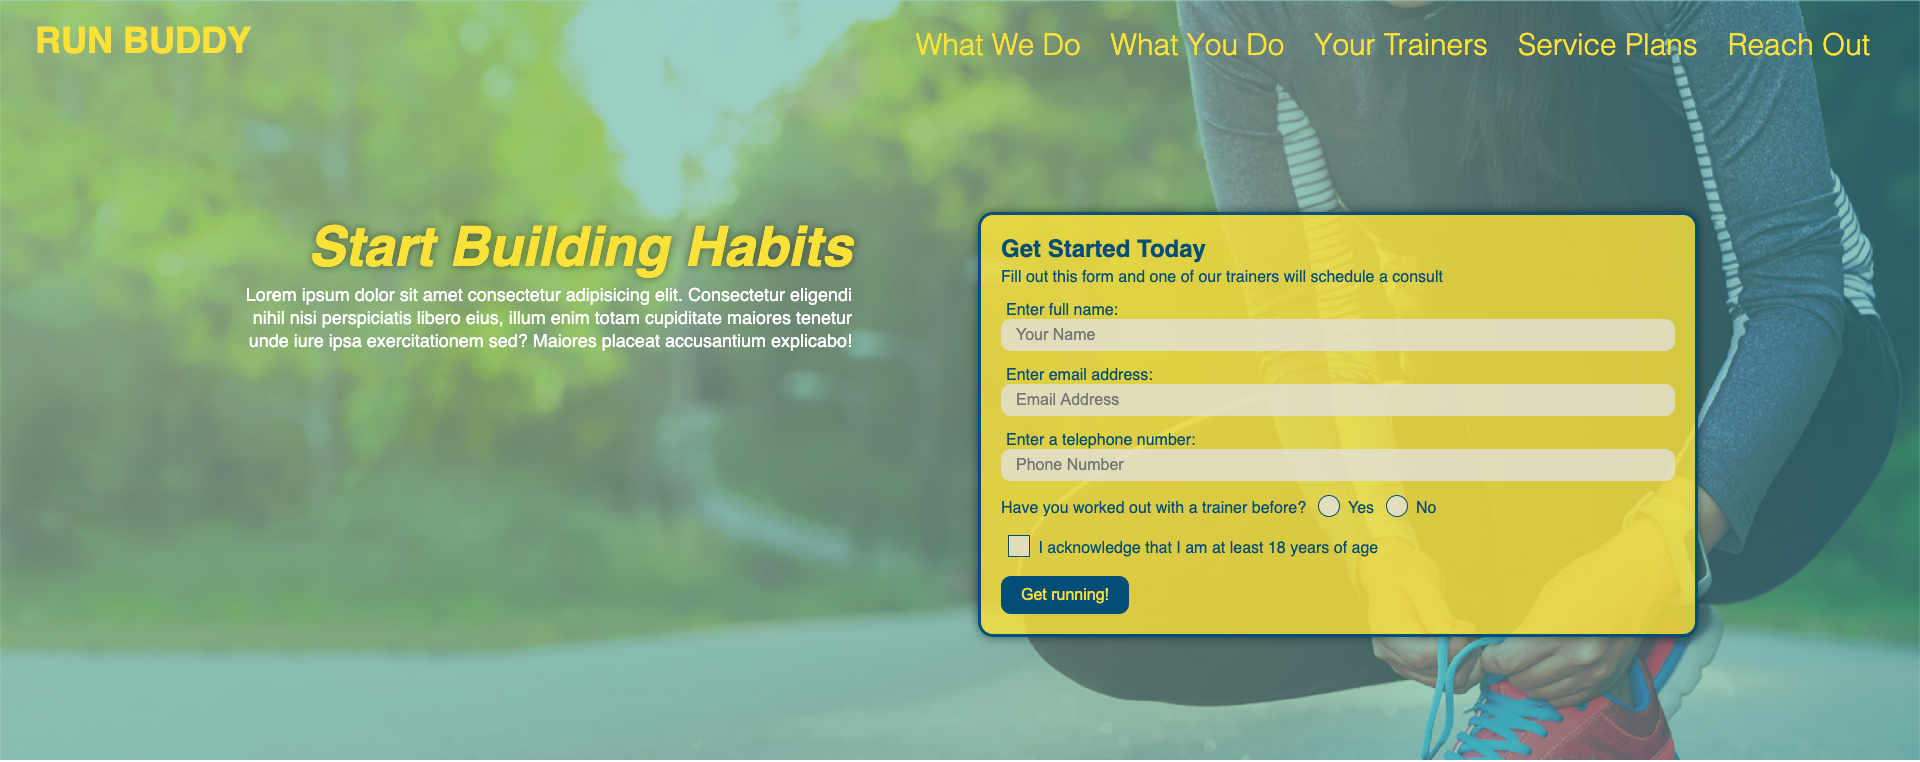
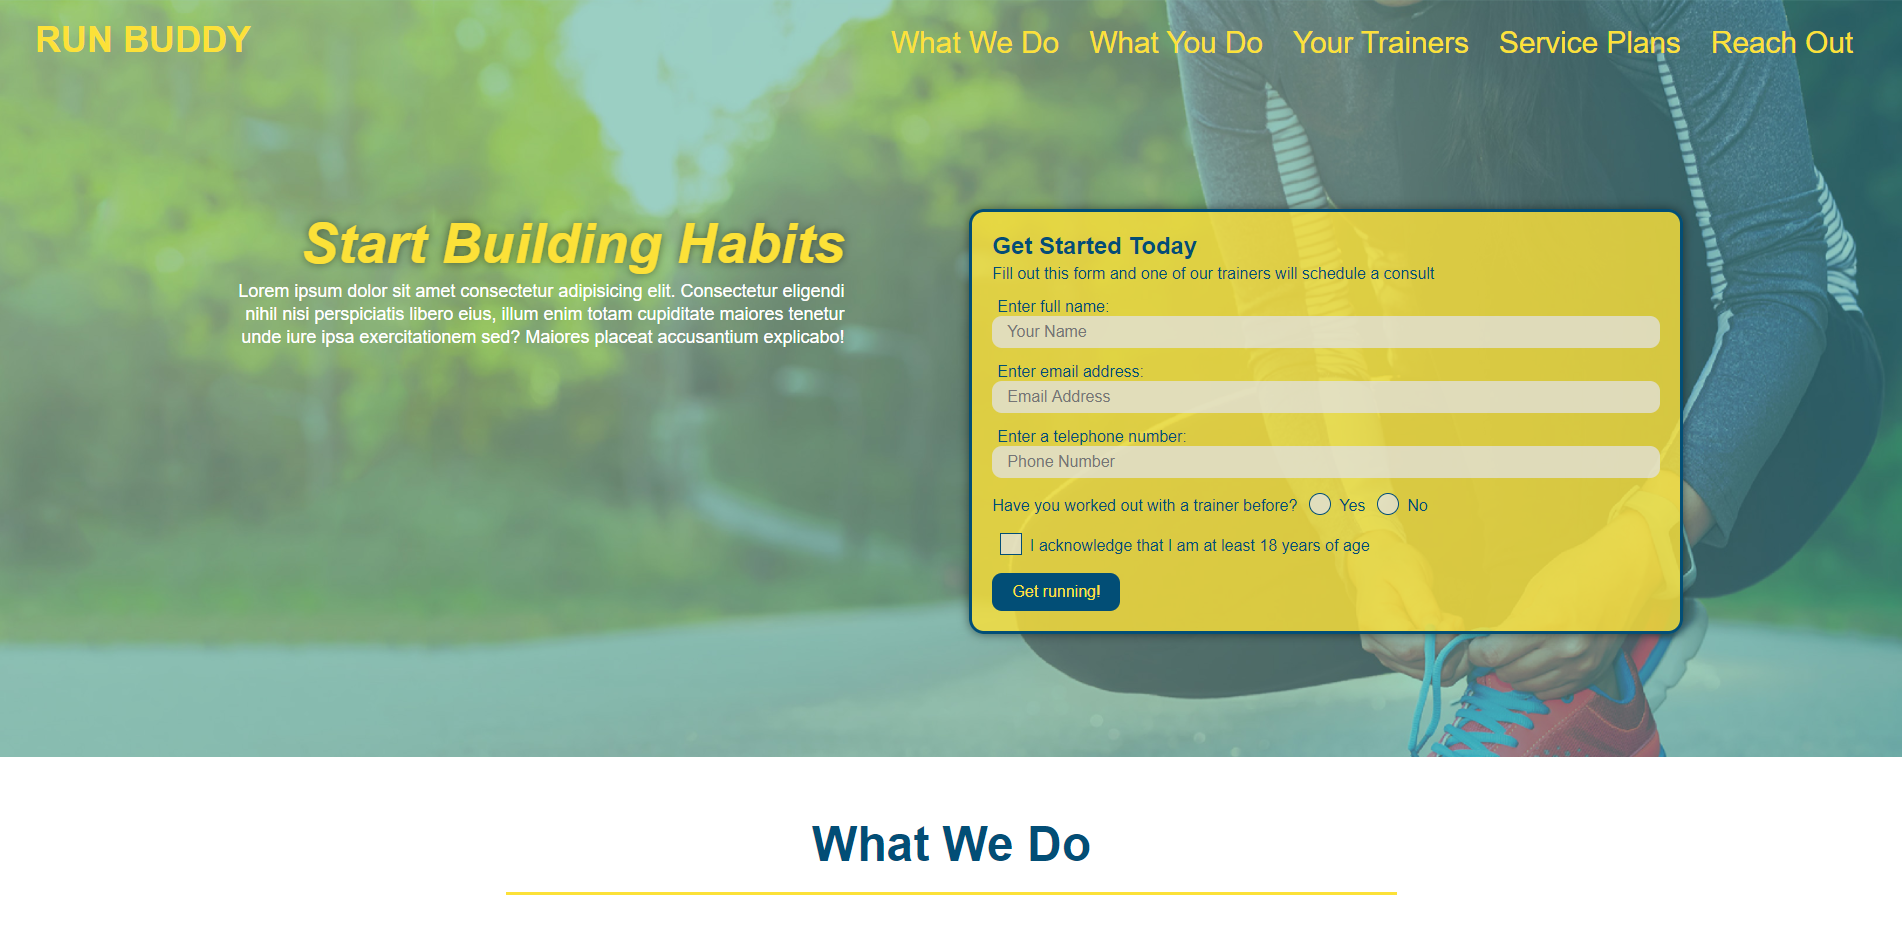
styled work section

diff --git a/index.html b/index.html
@@ -54,7 +54,7 @@
                     About Me
                 </h2>
             </div>
-            <div class="card-text pt-2">
+            <div class="card-text pt-2 px-5">
                 <p>
                     Adam is a gradute of the University of Tennessee's theatre program.  
                     Since graduation, he has worked locally with many different performing arts groups, including serving as Director of Performing Arts for Sundress Academy for the Arts as well as serving as in-house playwright for Knoxville Gay Men's Chorus.  
@@ -66,63 +66,64 @@
         </section>
 
         <!-- Work -->
-        <section id="work" class="work">
-            <h2 class="section-header">
-                Work
-            </h2>
+        <section id="work" class="work card bg-warning text-light p-2 m-1">
+            <div class="border-bottom">
+                <h2 class="section-header card-title text-center">
+                    Work
+                </h2>
+            </div>
             <!-- Projects Container Grid -->
-            <div class="container wrap projects">
+            <div class="container projects pt-3">
                
-                <!-- Row 1 -->
                 <div class="row">
-                    <div class="col-8 project">
+                    <div class="col-md-8 project pb-2">
                         <a class="card bg-dark text-white" href="https://fancibleunicorn.github.io/run-buddy/" >
-                            <img src="./images/run-buddy.png" class=" card-img" alt="Run-Buddy Website">
+                            <img src="./images/coding-with-cocktails.PNG" class=" card-img" alt="Run-Buddy Website">
+                            <div class="card-img-overlay">
+                                <h2 class="card-title">Coding-with-Cocktails</h2>
+                            </div>
+                        </a>
+                    </div>
+                    <div class="row col-md-4 project m-0">
+                        <div>
+                            <div class="project pb-2">
+                                <a class="card bg-dark text-light" href="https://fancibleunicorn.github.io/weather-dashboard/" >
+                                    <img src="./images/weather-dashboard.png" class="card-img" alt="Run-Buddy Website">
+                                    <div class="card-img-overlay">
+                                        <h2 class="card-title shadow-lg">Weather-Dashboard</h2>
+                                    </div>
+                                </a>
+                            </div>
+                        
+                            <div class="project pb-2">
+                                <a class="card bg-dark text-white" href="https://fancibleunicorn.github.io/git-it-done/" >
+                                    <img src="./images/git-it-done.PNG" class="card-img" alt="Run-Buddy Website">
+                                    <div class="card-img-overlay">
+                                        <h2 class="card-title">Git-it-Done</h2>
+                                    </div>
+                                </a>
+                            </div>
+                        </div>
+                    </div>
+                </div>
+                <div class="row">
+                    <div class="project col-md-4 pb-2">
+                        <a class="card bg-dark text-white" href="https://fancibleunicorn.github.io/run-buddy/" >
+                            <img src="./images/run-buddy.png" class="card-img" alt="Run-Buddy Website">
                             <div class="card-img-overlay">
                                 <h2 class="card-title">Run-Buddy</h2>
                             </div>
                         </a>
                     </div>
-                    <div class="row col-4">
-                        <div class="project">
-                            <a class="card bg-dark text-white" href="https://fancibleunicorn.github.io/run-buddy/" >
-                                <img src="./images/run-buddy.png" class="card-img" alt="Run-Buddy Website">
-                                <div class="card-img-overlay">
-                                    <h2 class="card-title">Project 2</h2>
-                                </div>
-                            </a>
-                        </div>
+                    <div class="col-md-4 project pb-2">
+                        <a class="card bg-dark text-white" href="https://fancibleunicorn.github.io/work-day-scheduler/" >
+                            <img src="./images/work-day-scheduler.PNG" class="card-img" alt="Run-Buddy Website">
+                            <div class="card-img-overlay">
+                                <h2 class="card-title">Work-Day-Scheduler</h2>
+                            </div>
+                        </a>
+                    </div>
                     
-                        <div class="project">
-                            <a class="card bg-dark text-white" href="https://fancibleunicorn.github.io/run-buddy/" >
-                                <img src="./images/run-buddy.png" class="card-img" alt="Run-Buddy Website">
-                                <div class="card-img-overlay">
-                                    <h2 class="card-title">Project 3</h2>
-                                </div>
-                            </a>
-                        </div>
-                    </div>
-                </div>
-                <!-- Row 2 -->
-                
-                <!-- Row 3 -->
-                <div class="row ">
-                    <div class="project col-4">
-                        <a class="card bg-dark text-white" href="https://fancibleunicorn.github.io/run-buddy/" >
-                            <img src="./images/run-buddy.png" class="card-img" alt="Run-Buddy Website">
-                            <div class="card-img-overlay">
-                                <h2 class="card-title">Project 4</h2>
-                            </div>
-                        </a>
-                    </div>
-                    <div class="col-4 project">
-                        <a class="card bg-dark text-white" href="https://fancibleunicorn.github.io/run-buddy/" >
-                            <img src="./images/run-buddy.png" class="card-img" alt="Run-Buddy Website">
-                            <div class="card-img-overlay">
-                                <h2 class="card-title">Project 5</h2>
-                            </div>
-                        </a>
-                    </div>
                 </div>
             </div>  
         </section>

diff --git a/assets/style.css b/assets/style.css
@@ -8,5 +8,11 @@
         --contact: rgb(43, 167, 199);
     }
 
+    .project img {
+        opacity: .5;
+    }
 
-
+    .project img:hover {
+        opacity: 1;
+        transition: 1s;
+    }
